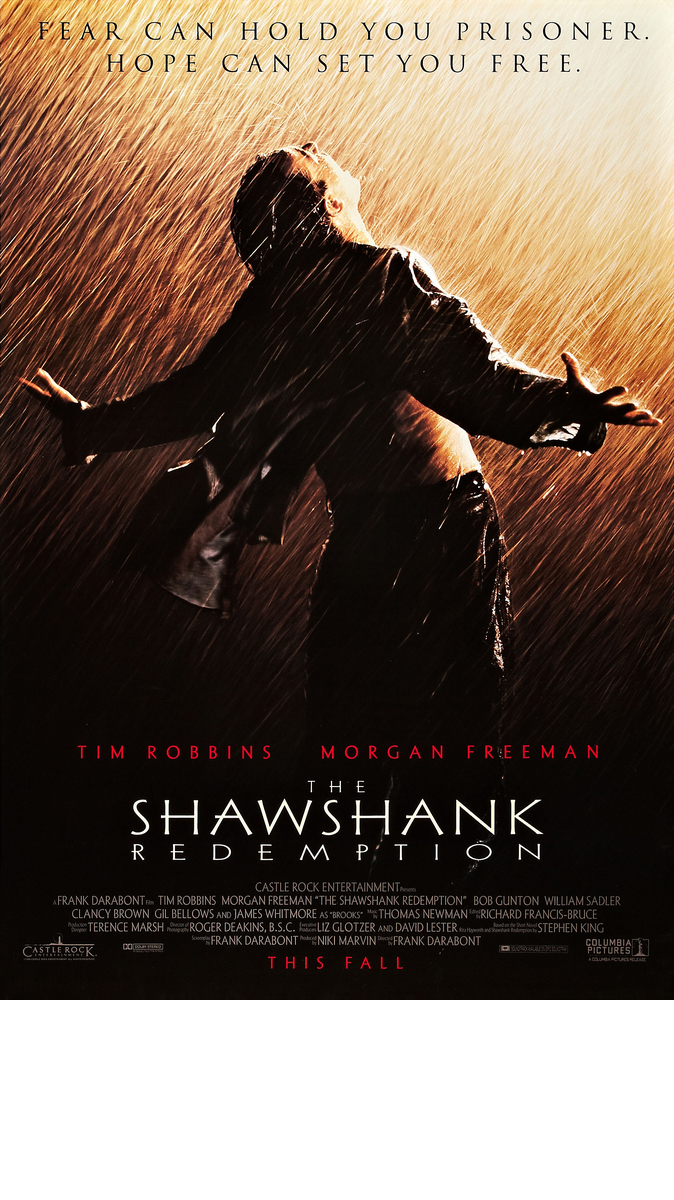
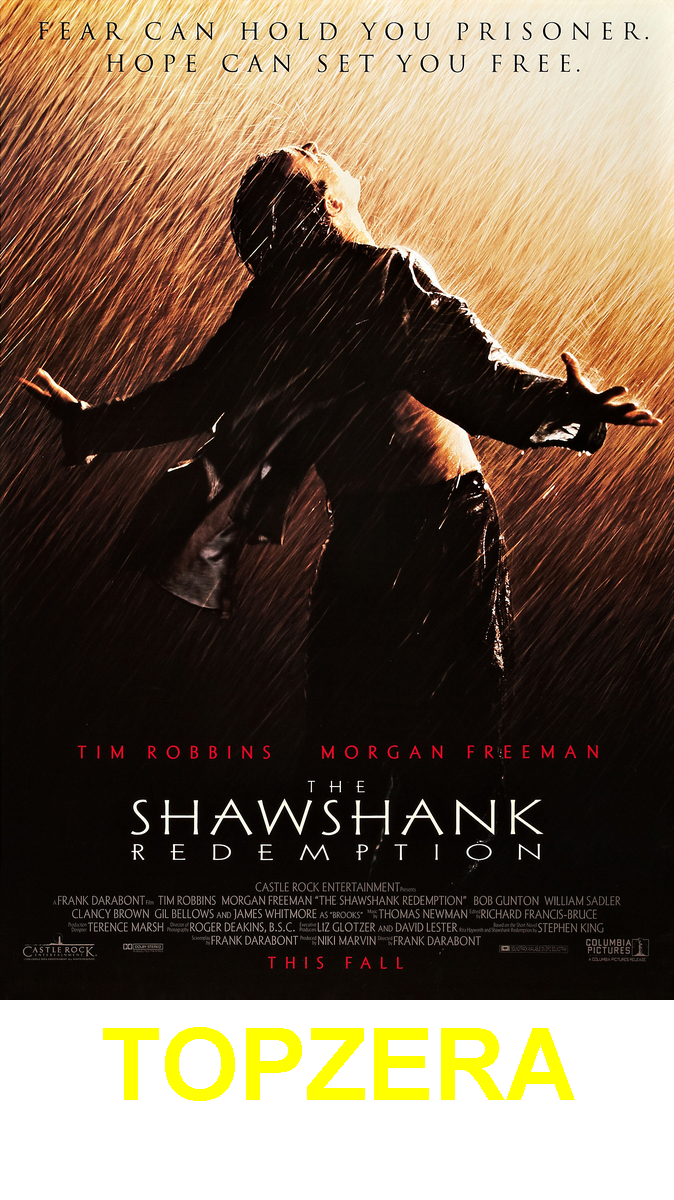
Desafio 2 (Ajustando o tamanho da fonte)

Changed region(s): [[0.1558, 0.8325, 0.8724, 0.925]]

diff --git a/src/GeradorDeFigurinhas.java b/src/GeradorDeFigurinhas.java
@@ -1,58 +1,48 @@
 import java.awt.Color;
 import java.awt.Font;
-import java.awt.FontMetrics;
 import java.awt.Graphics2D;
-import java.awt.geom.Rectangle2D;
 import java.awt.image.BufferedImage;
 import java.io.File;
 import java.io.FileInputStream;
 import java.io.InputStream;
 
-
 import javax.imageio.ImageIO;
-
 
 public class GeradorDeFigurinhas {
     
-    public void cria() throws Exception{
 
+    public void cria(InputStream inputStream, String nomeArquivo) throws Exception {
 
-        // LEITURA DA IMAGEM
-        InputStream inputStream = new FileInputStream(new File("entrada/Filme.jpg"));
-        //InputStream inputStream = new URL("https://raw.githubusercontent.com/alura-cursos/imersao-java-2-api/main/TopMovies_1.jpg").openStream();
+        // LENDO A IMAGEM
+        inputStream = new FileInputStream(new File("entrada/Filme.jpg"));
+        // InputStream inputStream = new URL("https://m.media-amazon.com/images/M/MV5BMDFkYTc0MGEtZmNhMC00ZDIzLWFmNTEtODM1ZmRlYWMwMWFmXkEyXkFqcGdeQXVyMTMxODk2OTU@.jpg").openStream();
         BufferedImage imagemOriginal = ImageIO.read(inputStream);
 
-
-        // CRIA NOVA IMAGEM EM MEMÓRIA COM TRANSPARENCIA E COM O TAMANHO NOVO
+        // CRIA NOVA IMAGEM EM MEMÓRIA C/ TRANSPARÊNCIA E C/ UM NOVO TAMANH0
         int largura = imagemOriginal.getWidth();
         int altura = imagemOriginal.getHeight();
         int novaAltura = altura + 200;
         BufferedImage novaImagem = new BufferedImage(largura, novaAltura, BufferedImage.TRANSLUCENT);
 
-        // COPIA A IMAGEM ORIGINAL PARA NOVA IMAGEM (em memória)
+        // COPIA A IMAGEM ORIGINAL P/ UMA NOVA IMAGEM(EM MEMÓRIA)
         Graphics2D graphics = (Graphics2D) novaImagem.getGraphics();
         graphics.drawImage(imagemOriginal, 0, 0, null);
 
-        
-        // ESCREVER UMA FRASE NA NOVA IMAGEM
-        String texto = "TOPZERA";
-        FontMetrics fontMetrics = graphics.getFontMetrics();
-        Rectangle2D retangulo = fontMetrics.getStringBounds(texto, graphics);
-        int larguraTexto = (int) retangulo.getWidth();
-        int posicaoTextoX = (largura - larguraTexto) / 2;
-        graphics.drawString(texto, posicaoTextoX, novaAltura - 100);
-
-        //CONFIG FONTE
-        var fonte = new Font(Font.SERIF, Font.BOLD, 100);
-        graphics.setColor(Color.GREEN);
+        // CONFIGURAÇÃO DE FONTE
+        var fonte = new Font(Font.SANS_SERIF, Font.BOLD, 100);
+        graphics.setColor(Color.YELLOW);
         graphics.setFont(fonte);
 
+        // ESCREVE UMA FRASE NA NOVA IMAGEM
+        graphics.drawString("TOPZERA", 100, novaAltura - 100);
 
-        // ESCREVER A NOVA IMAGEM EM UM ARQUIVO
+        // ESCREVE A NOVA IMAGEM EM UM ARQUIVO
         ImageIO.write(novaImagem, "png", new File("saida/figurinha.png"));
+
     }
+    //MAIN
     public static void main(String[] args) throws Exception {
-        var geradora = new GeradorDeFigurinhas();
-        geradora.cria();
+        var gerador = new GeradorDeFigurinhas();
+        gerador.cria(null, null);
     }
 }
